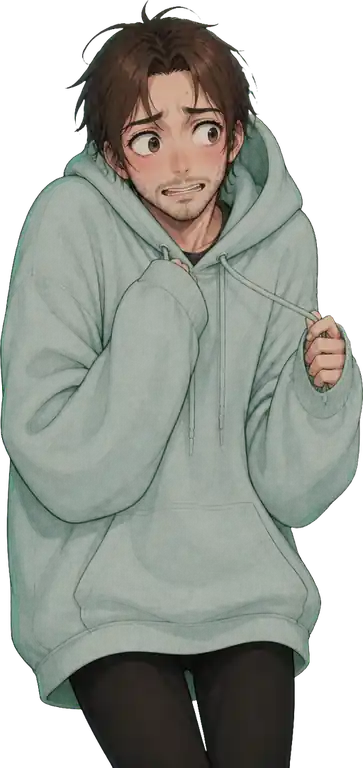
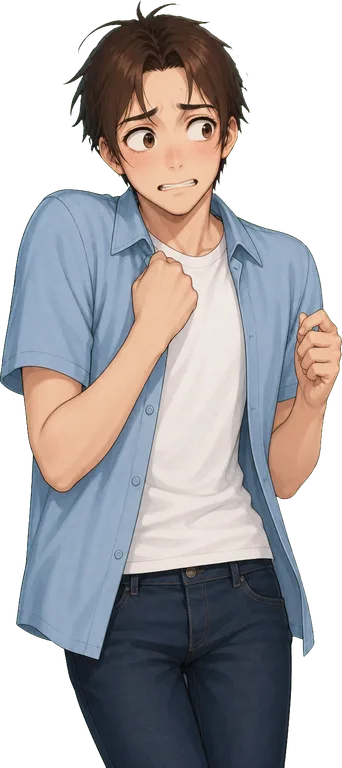
novel: 인물 크기 통일, 헤롱우·두유쿠키로 그림 수정
Claude-Session: https://claude.ai/code/session_018GzTivP446Z4KhefLmvcv5

diff --git a/novel.html b/novel.html
@@ -35,9 +35,9 @@ button{font:inherit;color:inherit;cursor:pointer}
 .bg.on{opacity:1}
 #vig{pointer-events:none;background:radial-gradient(ellipse at center,transparent 45%,rgba(0,0,0,.65) 100%)}
 #chars{position:absolute;left:0;right:0;top:44px;bottom:var(--tbh,33%);display:flex;justify-content:center;align-items:flex-end;gap:2%;pointer-events:none}
-.ch{flex:0 1 32%;height:100%;display:flex;align-items:flex-end;justify-content:center;transition:filter .4s,opacity .4s,transform .4s,flex-basis .4s,max-width .4s;filter:brightness(.3);opacity:.7}
+.ch{flex:0 0 auto;height:var(--chh,100%);margin:0 calc(var(--chm,0px)*-1);display:flex;align-items:flex-end;justify-content:center;transition:filter .4s,opacity .4s,transform .4s,flex-basis .4s,max-width .4s;filter:brightness(.3);opacity:.7}
 .ch.on{filter:none;opacity:1}
-.ch img{width:100%;height:100%;object-fit:contain;object-position:center bottom;display:block}
+.ch img{width:auto;height:100%;max-width:none;display:block}
 .ch .sil{width:min(30vw,150px);aspect-ratio:1;border-radius:50%;display:flex;align-items:center;justify-content:center;
   font-size:min(14vw,64px);font-weight:700;color:#fff;border:2px solid rgba(255,255,255,.25);margin-bottom:6%}
 #props{position:absolute;inset:0;pointer-events:none}
@@ -59,7 +59,6 @@ button{font:inherit;color:inherit;cursor:pointer}
 .rm #stage.shake{animation:none}
 .rm .prop{animation:none}
 .rm *{transition-duration:.01s!important}
-#chars[data-n="4"] .ch{flex-basis:24%}
 .ch.in{opacity:0}
 .ch.out{opacity:0;flex-basis:0;max-width:0}
 #tlab{text-align:center;font-size:12px;color:#9a95a4;margin-top:4px;min-height:16px}
@@ -4546,9 +4545,9 @@ function fillChar(d,x){
   if(x.f){const fe=imGet(key+'_f'); if(fe.st!=='fail')key=key+'_f'}
   if(isHid(x.id)){ if(d.dataset.k==='hid')return; d.dataset.k='hid'; d.innerHTML=''; const s=el('div','sil','?'); s.style.background='#3a3a4c'; d.appendChild(s); return }
   const e=imGet(key), tag=key+':'+e.st; if(d.dataset.k===tag)return; d.dataset.k=tag; d.innerHTML='';
-  if(e.st==='ok'){const im=e.img; im.alt=c.name; d.appendChild(im)}
+  if(e.st==='ok'){const im=e.img; im.alt=c.name; d.appendChild(im); setTimeout(normChars,0)}
   else if(e.st==='fail'){const s=el('div','sil',c.name[0].toUpperCase()); s.style.background=c.c; d.appendChild(s)}
-  else e.cbs.push(()=>{if(d.isConnected)fillChar(d,x)});     // 불러오는 중에는 아무것도 그리지 않는다
+  else e.cbs.push(()=>{if(d.isConnected){fillChar(d,x);normChars()}});     // 불러오는 중에는 아무것도 그리지 않는다
 }
 function renderChars(spkId){
   const wrap=$('chars'), list=desiredChars(); wrap.dataset.n=list.length;
@@ -4560,6 +4559,16 @@ function renderChars(spkId){
     fillChar(d,x); d.classList.toggle('on',x.id===spkId); return d;
   });
   doms.forEach((d,i)=>{ const act=[...wrap.children].filter(z=>!z.classList.contains('out')); if(act[i]!==d)wrap.insertBefore(d,act[i]||null) });
+  normChars();
+}
+function normChars(){
+  const wrap=$('chars'); if(!wrap)return;
+  const act=[...wrap.children].filter(z=>!z.classList.contains('out'));
+  const H=wrap.clientHeight, W=wrap.clientWidth; if(!H||!W)return;
+  let tot=0; act.forEach(d=>{const im=d.querySelector('img'); const r=im&&im.naturalWidth?im.naturalWidth/im.naturalHeight:(d.querySelector('.sil')?.5:.5); tot+=r*H});
+  const lim=W*1.15, sc=tot>lim?lim/tot:1, w=tot*sc;
+  wrap.style.setProperty('--chh',Math.round(H*sc)+'px');
+  wrap.style.setProperty('--chm',(act.length>1&&w>W?Math.ceil((w-W)/(act.length-1)/2):0)+'px');
 }
 function noteSpeaker(c){ if(!c)return; hist=hist.filter(x=>x!==c.id); hist.push(c.id); if(hist.length>3)hist.shift() }
 
@@ -5140,7 +5149,7 @@ window.addEventListener('pagehide',()=>{saveRead();saveMeta()});
 setInterval(()=>{ if(started&&!document.hidden&&WS!=='title'&&WS!=='end')ST.play++ },1000);
 setInterval(()=>{ if(started)saveMeta() },20000);
 
-function fitChars(){const r=$('box').getBoundingClientRect(),st=stage.getBoundingClientRect();stage.style.setProperty('--tbh',Math.max(0,Math.round(st.bottom-r.top))+'px')}
+function fitChars(){const r=$('box').getBoundingClientRect(),st=stage.getBoundingClientRect();stage.style.setProperty('--tbh',Math.max(0,Math.round(st.bottom-r.top))+'px');try{normChars()}catch(e){}}
 try{new ResizeObserver(fitChars).observe($('box'));new ResizeObserver(fitChars).observe(stage)}catch(e){}
 addEventListener('resize',fitChars); fitChars();
 applyRm(); auMute(); updClue(); refreshTitle(); preloadAll(); nvCheck();
